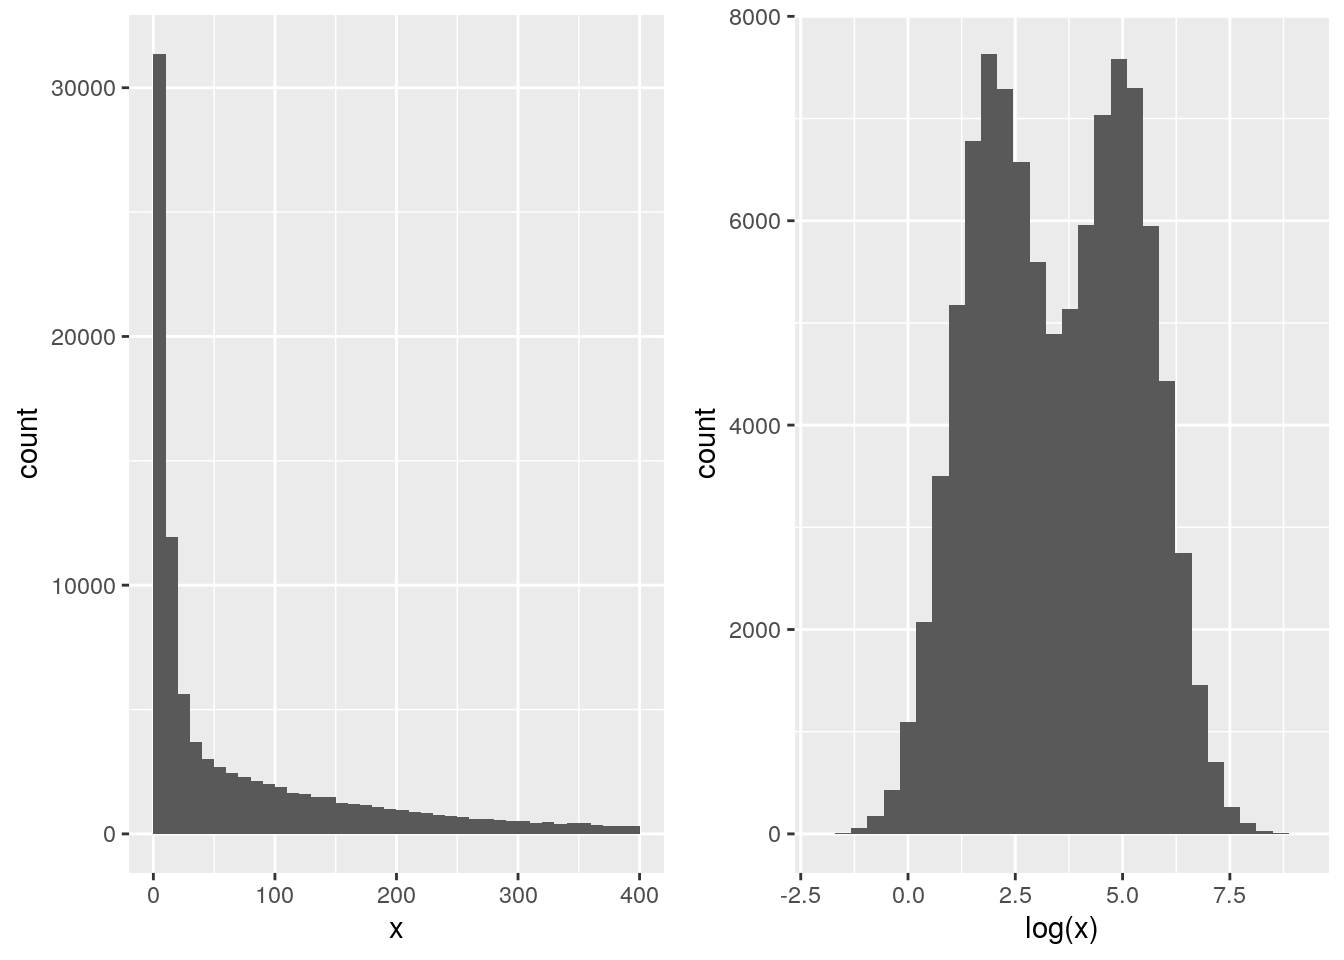
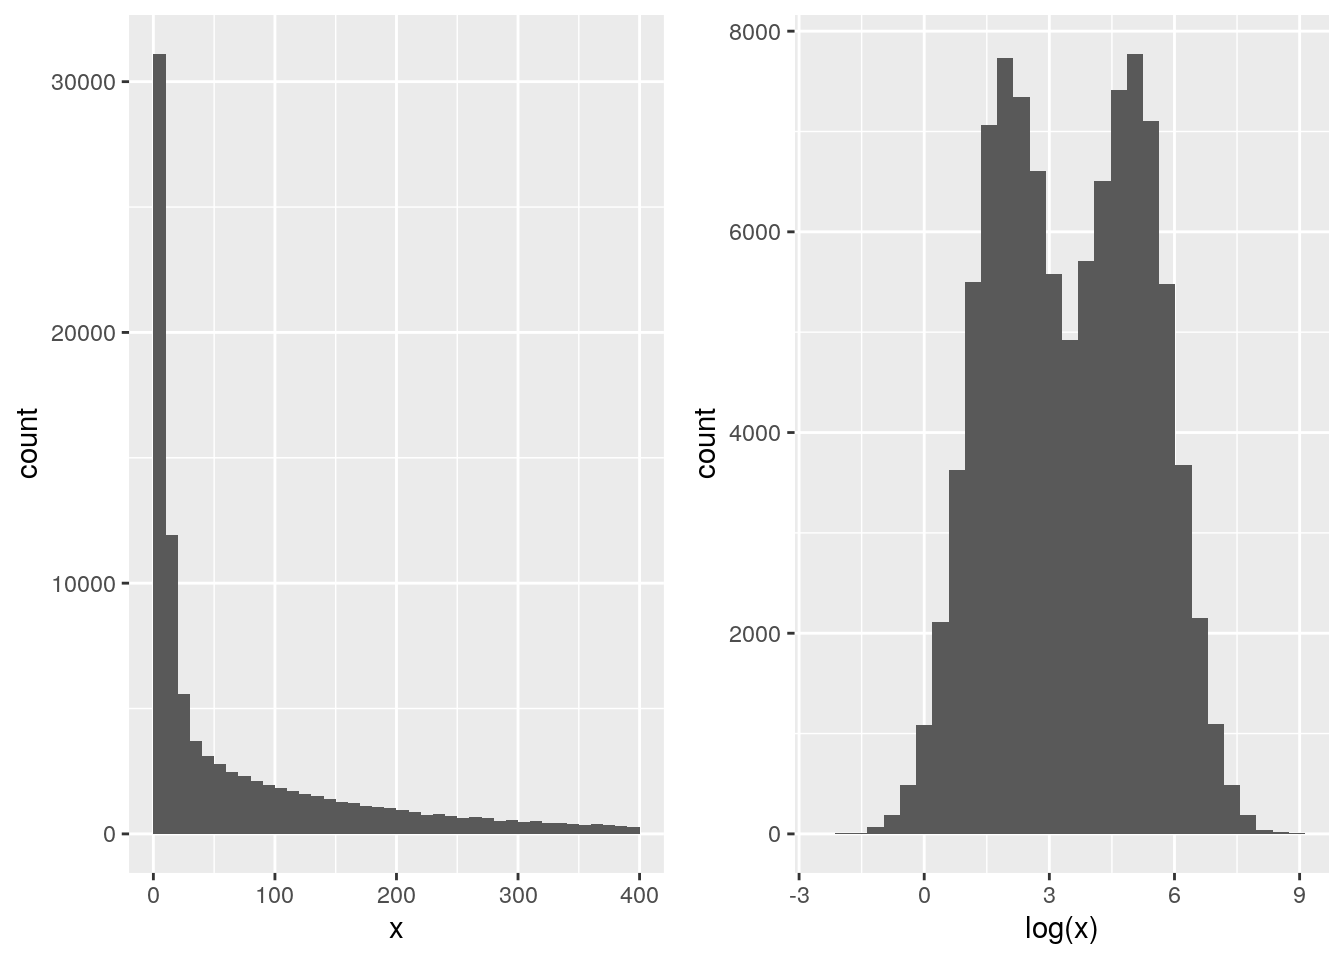
image rescale to see a point of interest

diff --git a/docs/sec-sl.html b/docs/sec-sl.html
@@ -326,7 +326,13 @@ p2 &lt;-<span class="st"> </span>factoextra<span class="op">::</span><span class
 p1 <span class="op">/</span><span class="st"> </span>p2</code></pre></div>
 <pre><code>## Warning: Removed 100 rows containing missing values (geom_point).</code></pre>
 <pre><code>## Warning: Removed 1 rows containing missing values (geom_point).</code></pre>
-<p><img src="WSBIM1322_files/figure-html/unnamed-chunk-80-1.png" width="672"></p>
+<div class="figure">
+<span id="fig:unnamed-chunk-80"></span>
+<p class="caption marginnote shownote">
+Figure 10.3: Visualiation of the labelled and unlabelled data before (top) and after (bottom) classification.
+</p>
+<img src="WSBIM1322_files/figure-html/unnamed-chunk-80-1.png" alt="Visualiation of the labelled and unlabelled data before (top) and after (bottom) classification." width="672">
+</div>
 <p class="solution-end">
 <span class="fa fa-square-o solution-icon"></span>
 </p>
@@ -442,7 +448,7 @@ knn_<span class="dv">11</span> &lt;-<span class="st"> </span><span class="kw">kn
 <div class="figure">
 <span id="fig:unnamed-chunk-83"></span>
 <p class="caption marginnote shownote">
-Figure 10.3: Training and testing sets.
+Figure 10.4: Training and testing sets.
 </p>
 <img src="WSBIM1322_files/figure-html/unnamed-chunk-83-1.png" alt="Training and testing sets." width="672">
 </div>
@@ -554,7 +560,7 @@ test_<span class="dv">11</span> &lt;-<span class="st"> </span><span class="kw">k
 <div class="figure" style="text-align: center">
 <span id="fig:unnamed-chunk-87"></span>
 <p class="caption marginnote shownote">
-Figure 10.4: The data is split into 3 folds. At each training/testing iteration, a different fold is used as test partition (orange) and the two other ones (white) are used to train the model.
+Figure 10.5: The data is split into 3 folds. At each training/testing iteration, a different fold is used as test partition (orange) and the two other ones (white) are used to train the model.
 </p>
 <img src="figs/xval.png" alt="The data is split into 3 folds. At each training/testing iteration, a different fold is used as test partition (orange) and the two other ones (white) are used to train the model." width="100%">
 </div>
@@ -696,7 +702,7 @@ accs</code></pre></div>
 <div class="figure">
 <span id="fig:unnamed-chunk-90"></span>
 <p class="caption marginnote shownote">
-Figure 10.5: Average classification accuracy as a function of the parameter k.
+Figure 10.6: Average classification accuracy as a function of the parameter k.
 </p>
 <img src="WSBIM1322_files/figure-html/unnamed-chunk-90-1.png" alt="Average classification accuracy as a function of the parameter k." width="672">
 </div>

diff --git a/docs/sec-vis.html b/docs/sec-vis.html
@@ -720,7 +720,7 @@ p1 &lt;-<span class="st">  </span><span class="kw">ggplot</span>(sim, <span clas
 p2 &lt;-<span class="st">  </span><span class="kw">ggplot</span>(sim, <span class="kw">aes</span>(<span class="kw">log</span>(x))) <span class="op">+</span>
 <span class="st">    </span><span class="kw">geom_histogram</span>(<span class="dt">bins =</span> <span class="dv">30</span>)
 p1 <span class="op">+</span><span class="st"> </span>p2</code></pre></div>
-<pre><code>## Warning: Removed 7923 rows containing non-finite values (stat_bin).</code></pre>
+<pre><code>## Warning: Removed 8050 rows containing non-finite values (stat_bin).</code></pre>
 <div class="figure">
 <span id="fig:sim"></span>
 <p class="caption marginnote shownote">
